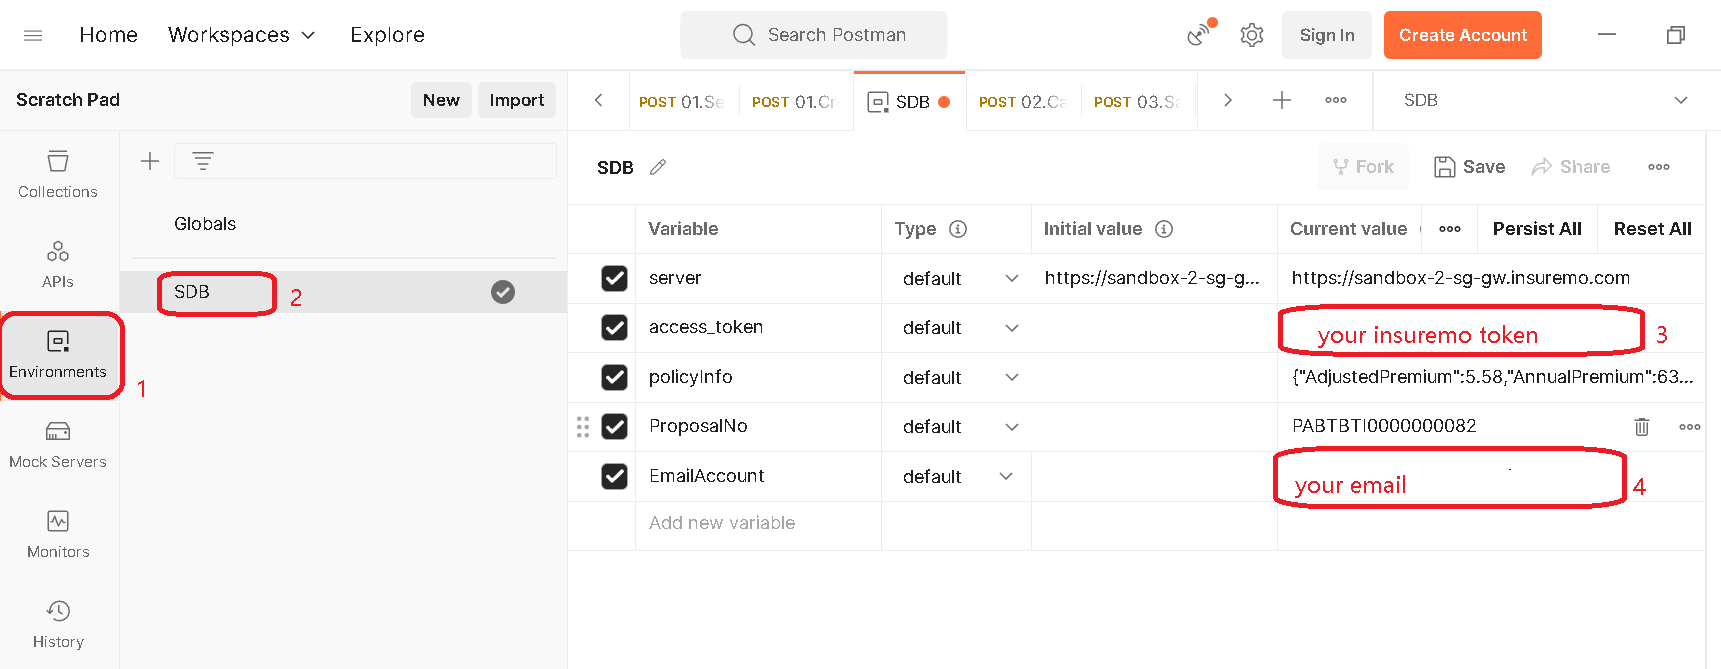
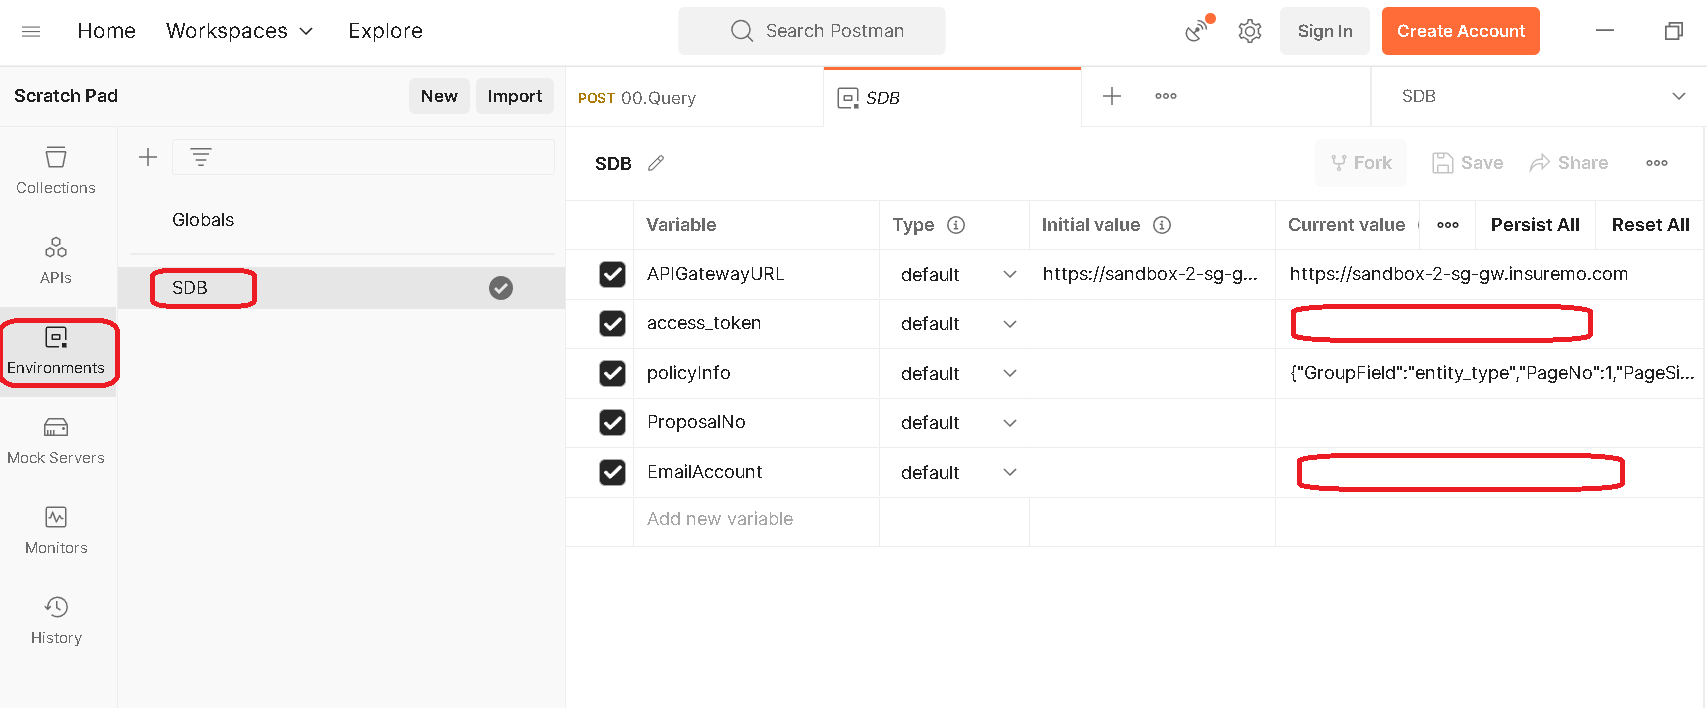
init

diff --git a/README.md b/README.md
@@ -1,33 +1,25 @@
 # Calling InsureMO API Sample
 
-This is a sample project to show how to use Postman to invoke InsureMO API. The project includes Postman Collections and Environments files. Please use the ***release*** branch.
+This is a sample project to show how to use Postman to invoke InsureMO API. The project includes Postman Collections and Environments files.
 
 ## Prerequisite
 
 ### Install Postman application
 >Download latest [Postman](https://www.postman.com/downloads/) application and install it.
 
+## Run in local
 
-### Generate Personal Access Token
-//TODO
-
-
-### Step 1: Get the sample files
-  Clone the repo or download the code as a zip.
-> The ***release*** branch is the latest stable version. 
-
-### Step 2: Import the files to Postman
+### Step 1: Import the files to Postman
 Refer to the following figures to select two files in ./postman directory and click Import button.
 ![Select Files](./docs/images/import_1.png)
 
 ![Do Import](./docs/images/import_2.png)
 
-### Step 3: Setup access_token with Insuremo Token and email account.
-//这个是引用其他readme还是再重头指导user
+### Step 2: Setup access_token with InsureMO Token and email account.
 ![setup variable](./docs/images/setup_var.png)
 
-###  Step 4: You can access the API now
-
+### Step 3: You can access the API now. Take ***00.Query*** as an example,refer below figure.
+![sample query](./docs/images/query.png)
 
 
 
